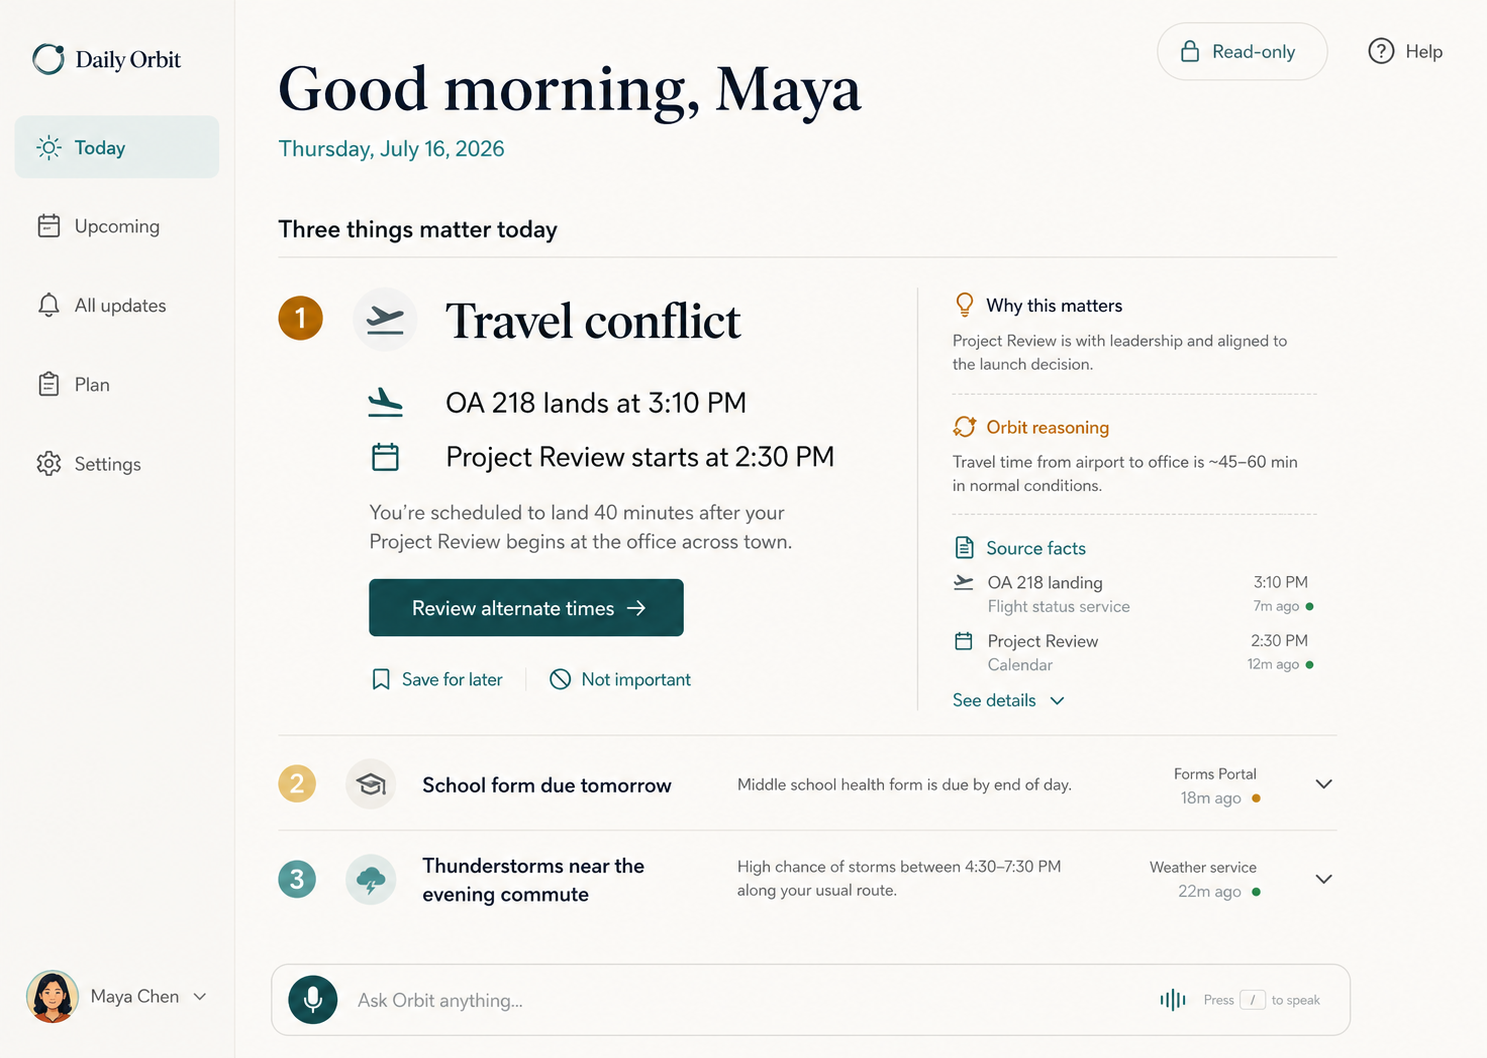
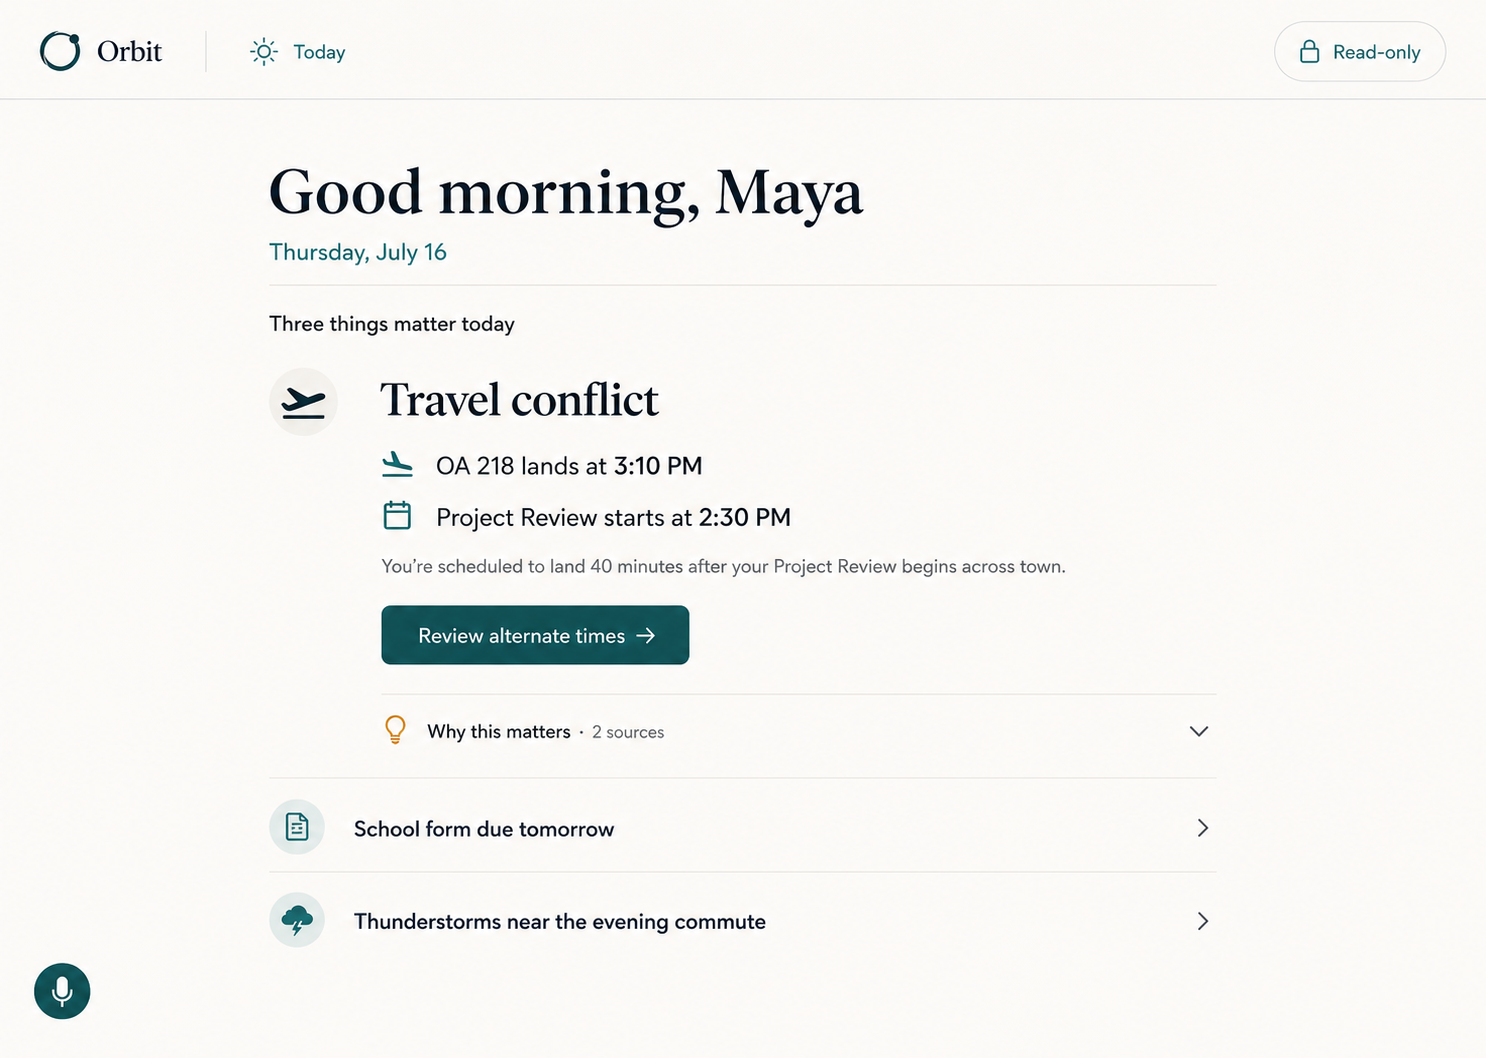
design: simplify Orbit concept directions

diff --git a/docs/concept-comparison.md b/docs/concept-comparison.md
@@ -16,11 +16,11 @@ Scores use a five-point discovery rubric, where five is strongest.
 | Daily briefing fit | 5 | 3 | 2 |
 | Evidence discoverability | 5 | 4 | 4 |
 | Approval comprehension | 3 | 3 | 5 |
-| Calmness and cognitive load | 5 | 3 | 4 |
+| Calmness and cognitive load | 5 | 4 | 5 |
 | Structural scalability | 4 | 3 | 4 |
-| Responsive potential | 5 | 2 | 3 |
+| Responsive potential | 5 | 3 | 4 |
 | Distinctive Orbit identity | 4 | 5 | 4 |
-| **Total** | **36** | **26** | **30** |
+| **Total** | **36** | **28** | **32** |
 
 ## Daily Orbit
 
@@ -71,15 +71,15 @@ Does the map help users discover a relationship faster than a grouped list, and 
 
 ### Strengths
 
-- Makes the action ladder and current state explicit.
-- Clearly separates completed work, pending approval, future execution, verification, and undo.
+- Makes the action lifecycle and current decision explicit without showing every internal state.
+- Groups the flow into four understandable moments: noticed, drafted, approve, and verify.
 - Provides excellent space for exact effects, recipients, evidence, and risk explanation.
 - Supports trust repair and partial-failure states.
 
 ### Risks
 
-- Too process-heavy for a default daily home screen.
-- A persistent lifecycle rail consumes significant mobile space.
+- Still too process-specific for a default daily home screen.
+- The compact progress cue needs validation on narrow mobile screens.
 - May make low-risk interactions feel bureaucratic if applied universally.
 
 ### Validation focus
@@ -92,13 +92,14 @@ Daily Orbit should own the home and briefing hierarchy. A later implementation m
 
 ## Concept review
 
-- Exactly three independent PNG concepts exist.
+- Exactly three final PNG concepts exist; each was independently revised after visual review.
 - Each uses fictional data anchored to July 16, 2026.
 - Each has a distinct information architecture and interaction model.
 - No existing UI was available, so an audit was intentionally skipped.
 - All concepts preserve read-only or pre-approval state and avoid claiming unverified execution.
 - Visible scenario details are illustrative; implementation fixtures must use one internally consistent fictional itinerary.
 - Generated images are design targets, not accessible or production-ready interfaces. Typography, contrast, semantics, and responsive behavior require implementation-time validation.
+- The final revision removed secondary navigation and evidence density from Daily Orbit, reduced Orbit Map to one active relationship, and compressed Orbit Guide to one decision plus four grouped states.
 
 ## Hard stop
 

diff --git a/design/concepts/README.md b/design/concepts/README.md
@@ -1,18 +1,18 @@
 # Orbit Frontend Concepts
 
-These three project-bound PNGs were generated independently with the built-in image generation workflow on July 16, 2026. They use fictional data and are visual exploration artifacts, not production UI.
+These three project-bound PNGs were generated independently and then revised with the built-in image generation workflow on July 16, 2026. They use fictional data and are visual exploration artifacts, not production UI.
 
 ## Daily Orbit prompt
 
-Create a polished 1440 × 1024 desktop consumer-product UI centered on Maya Chen's Thursday, July 16 briefing. Use an editorial hierarchy: one dominant travel conflict, two quieter supporting rows, visible read-only status, source facts, Orbit reasoning, freshness, a subtle voice entry, and one “Review alternate times” action. Keep the surface calm and warm; avoid generic chat, card grids, nested cards, dashboards, and science-fiction imagery.
+Create a polished desktop consumer-product UI centered on Maya Chen's Thursday, July 16 briefing. Use a spacious editorial hierarchy: one dominant travel conflict, two quiet one-line supporting items, a compact expandable “Why this matters · 2 sources” row, visible read-only status, a small voice control, and one “Review alternate times” action. Remove sidebar navigation, ranking badges, the full-width chat bar, and dense evidence panels.
 
 ## Orbit Map prompt
 
-Create a polished 1440 × 1024 desktop context-centered workspace for Maya Chen. Place Maya at the center of five legible domain regions and highlight the cross-domain connection between fictional flight OA 218 at 3:10 PM and Project Review at 2:30 PM. Open a focused explanation workspace with facts, reasoning, freshness, read-only status, voice entry, and one “Review alternate times” action. Make the map functional and sparse; avoid tangled networks, planets, neon, and decorative rings.
+Create a polished desktop context-centered workspace for Maya Chen. Use an abstract center marker, only Calendar, Travel, and Family, one highlighted relationship between fictional flight OA 218 at 3:10 PM and Project Review at 2:30 PM, and one compact explanation surface. Keep read-only status, a small voice control, an expandable “Why this matters · 2 sources” row, and one “Review alternate times” action. Remove the portrait, extra domains, multiple paths, metrics, and decorative rings.
 
 ## Orbit Guide prompt
 
-Create a polished 1440 × 1024 desktop lifecycle workspace for the fictional Travel conflict. Show Observation and Recommendation complete, Draft ready, and Approval, Execution, Verification, and Undo as future states. Preview moving Project Review from 2:30 PM to 4:30 PM, notifying three attendees, and a fictional message. State that nothing has changed, explain why approval is required, and use “Review and approve” as the primary action. Avoid chat, feeds, maps, decorative steppers, and false success states.
+Create a polished desktop lifecycle workspace for the fictional Travel conflict. Use one compact four-state line—Noticed, Drafted, Approve, Verify—and one focused proposed change: move Project Review from 2:30 PM to 4:30 PM and notify three attendees. Collapse the message and evidence into lightweight rows, state “Nothing has changed yet,” use “Review and approve” as the sole primary action, and note that undo is checked after verification. Remove the sidebar, seven-stage rail, history column, long message, and dense explanation blocks.
 
 ## Files
 
@@ -20,4 +20,4 @@ Create a polished 1440 × 1024 desktop lifecycle workspace for the fictional Tra
 - `orbit-map.png`
 - `orbit-guide.png`
 
-Each generated file is 1487 × 1058 pixels, matching the intended desktop aspect ratio without stretching.
+The generated files are approximately 1486 × 1059 pixels, matching the intended desktop aspect ratio without stretching.